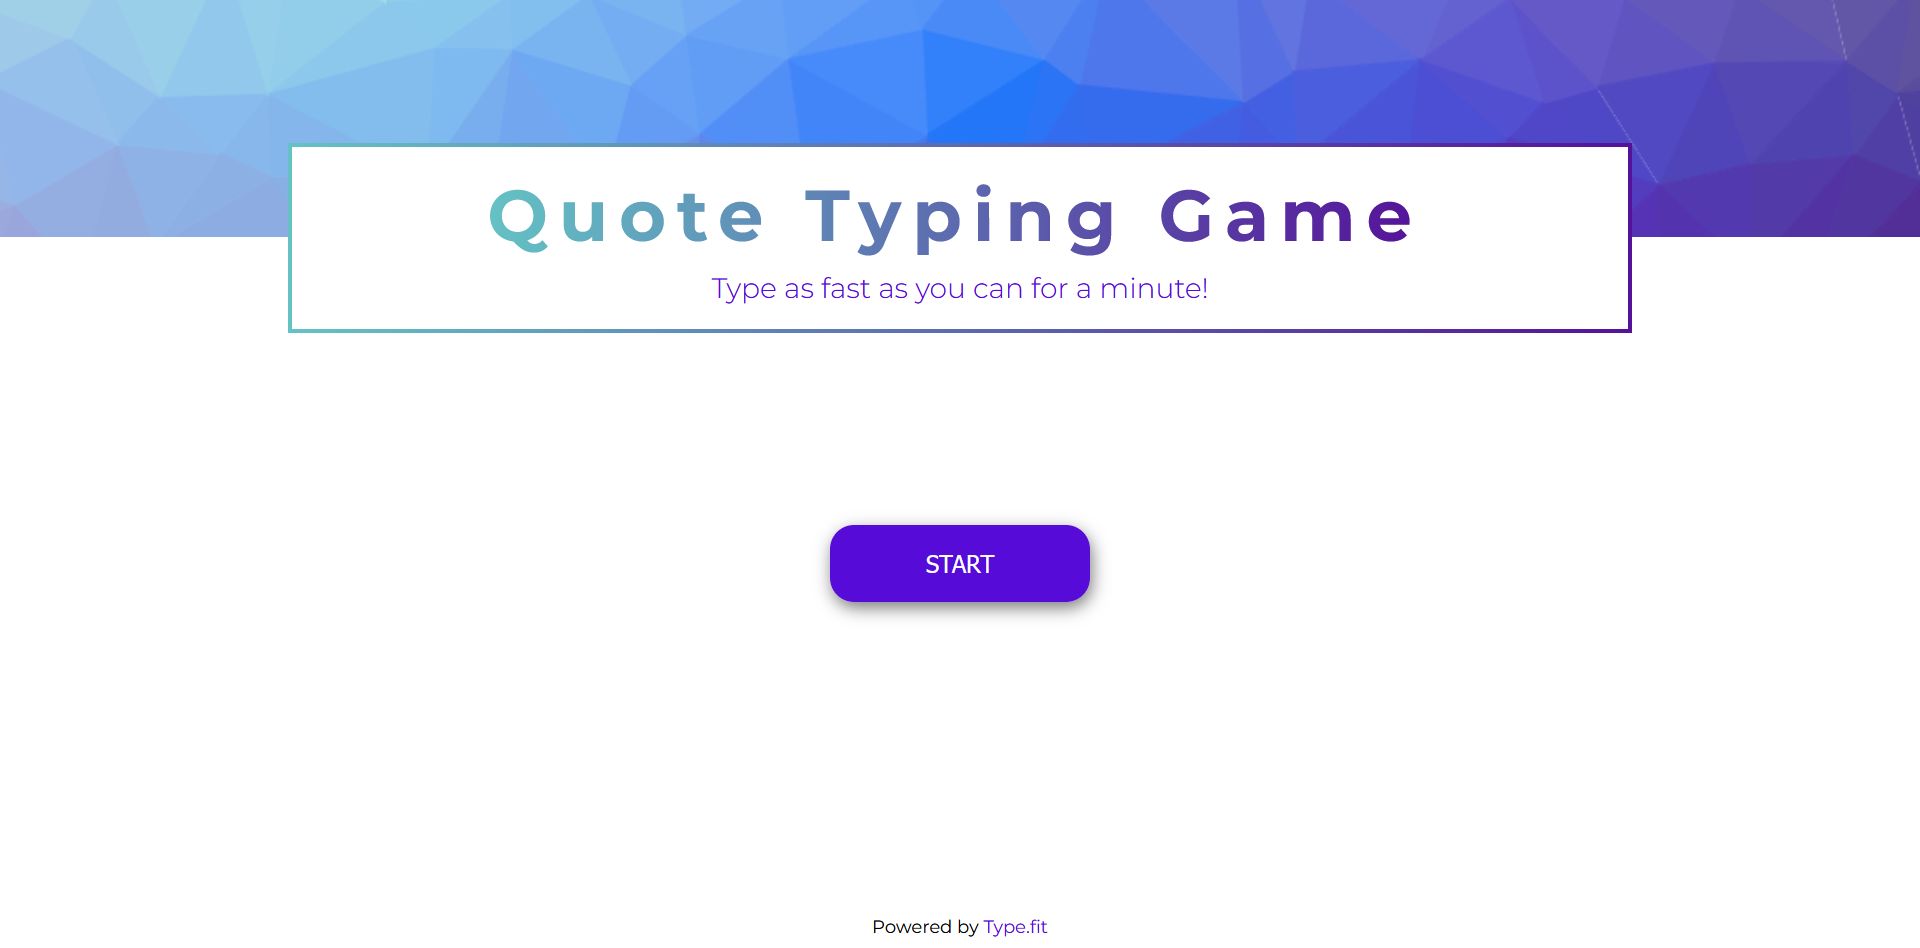
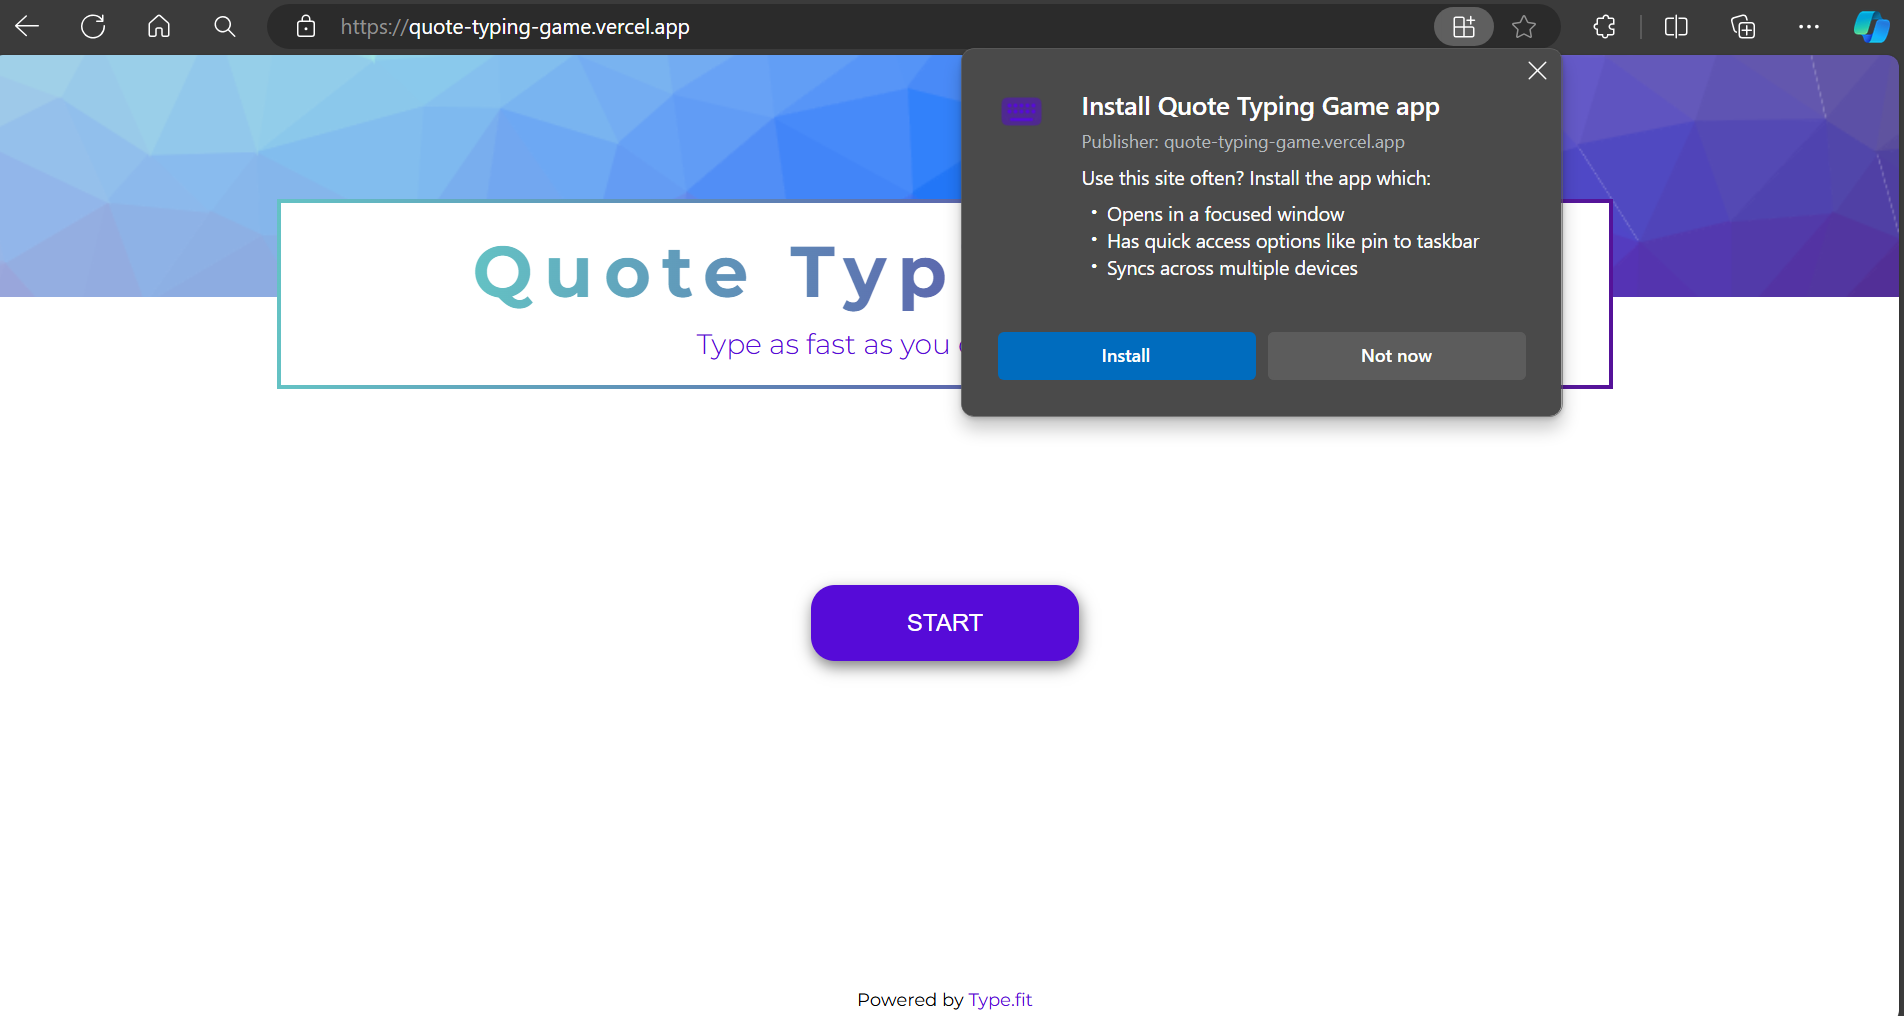
Updated porto

Changed region(s): [[0.0, 0.0, 1.0, 1.0], [0.4028, 0.5506, 0.5888, 0.673], [0.4338, 0.9483, 0.5578, 1.0]]

diff --git a/src/content/engineering/quote-typing-game-pwa.md b/src/content/engineering/quote-typing-game-pwa.md
@@ -13,9 +13,9 @@ repo: https://github.com/mad4869/quote-typing-game-pwa
 
 ## Process
 
-### Building Web Manifest
+### Building the Web Manifest
 
-To create a PWA, first we need to build a web manifest that contains all the properties needed to define how the app should look like as a native app. Here I define the web manifest in the `app.webmanifest` file, with all these properties laid out:
+To create a PWA, we first need to build a web manifest that contains all the necessary properties to define how the app should look and behave like a native app. Here, I define the web manifest in the `app.webmanifest` file with all these properties laid out:
 
 ```json
 {
@@ -65,9 +65,9 @@ To create a PWA, first we need to build a web manifest that contains all the pro
 }
 ```
 
-### Configure Service Worker
+### Configuring the Service Worker
 
-The second step is to configure a service worker that would act as an internal web server that serves all the web content inside multiple devices. Here I am using __Workbox__ as a tool to generate the service worker as well as configure the caching strategy for all the app assets.
+The second step is to configure a service worker that acts as an internal web server, serving all the web content across multiple devices. Here, I am using __Workbox__ as a tool to generate the service worker and configure the caching strategy for all the app assets. The configuration is located inside `workbox-config.cjs`.
 
 ```js
 /* global module */
@@ -134,6 +134,15 @@ module.exports = {
     ],
 };
 ```
+
+## Testing
+
+If all goes well, we should be able to see the installation button on the browser toolbar, both on desktop and mobile devices.
+
+![Installation button in desktop](./assets/quote-typing-game-pwa/quote-typing-game-pwa.png)
+![Installation button in mobile](./assets/quote-typing-game-pwa/pwa-mobile.jpg)
+
+After we select Install, the app can now be accessed as if it were a native app.
 
 ## Conclusion
 
